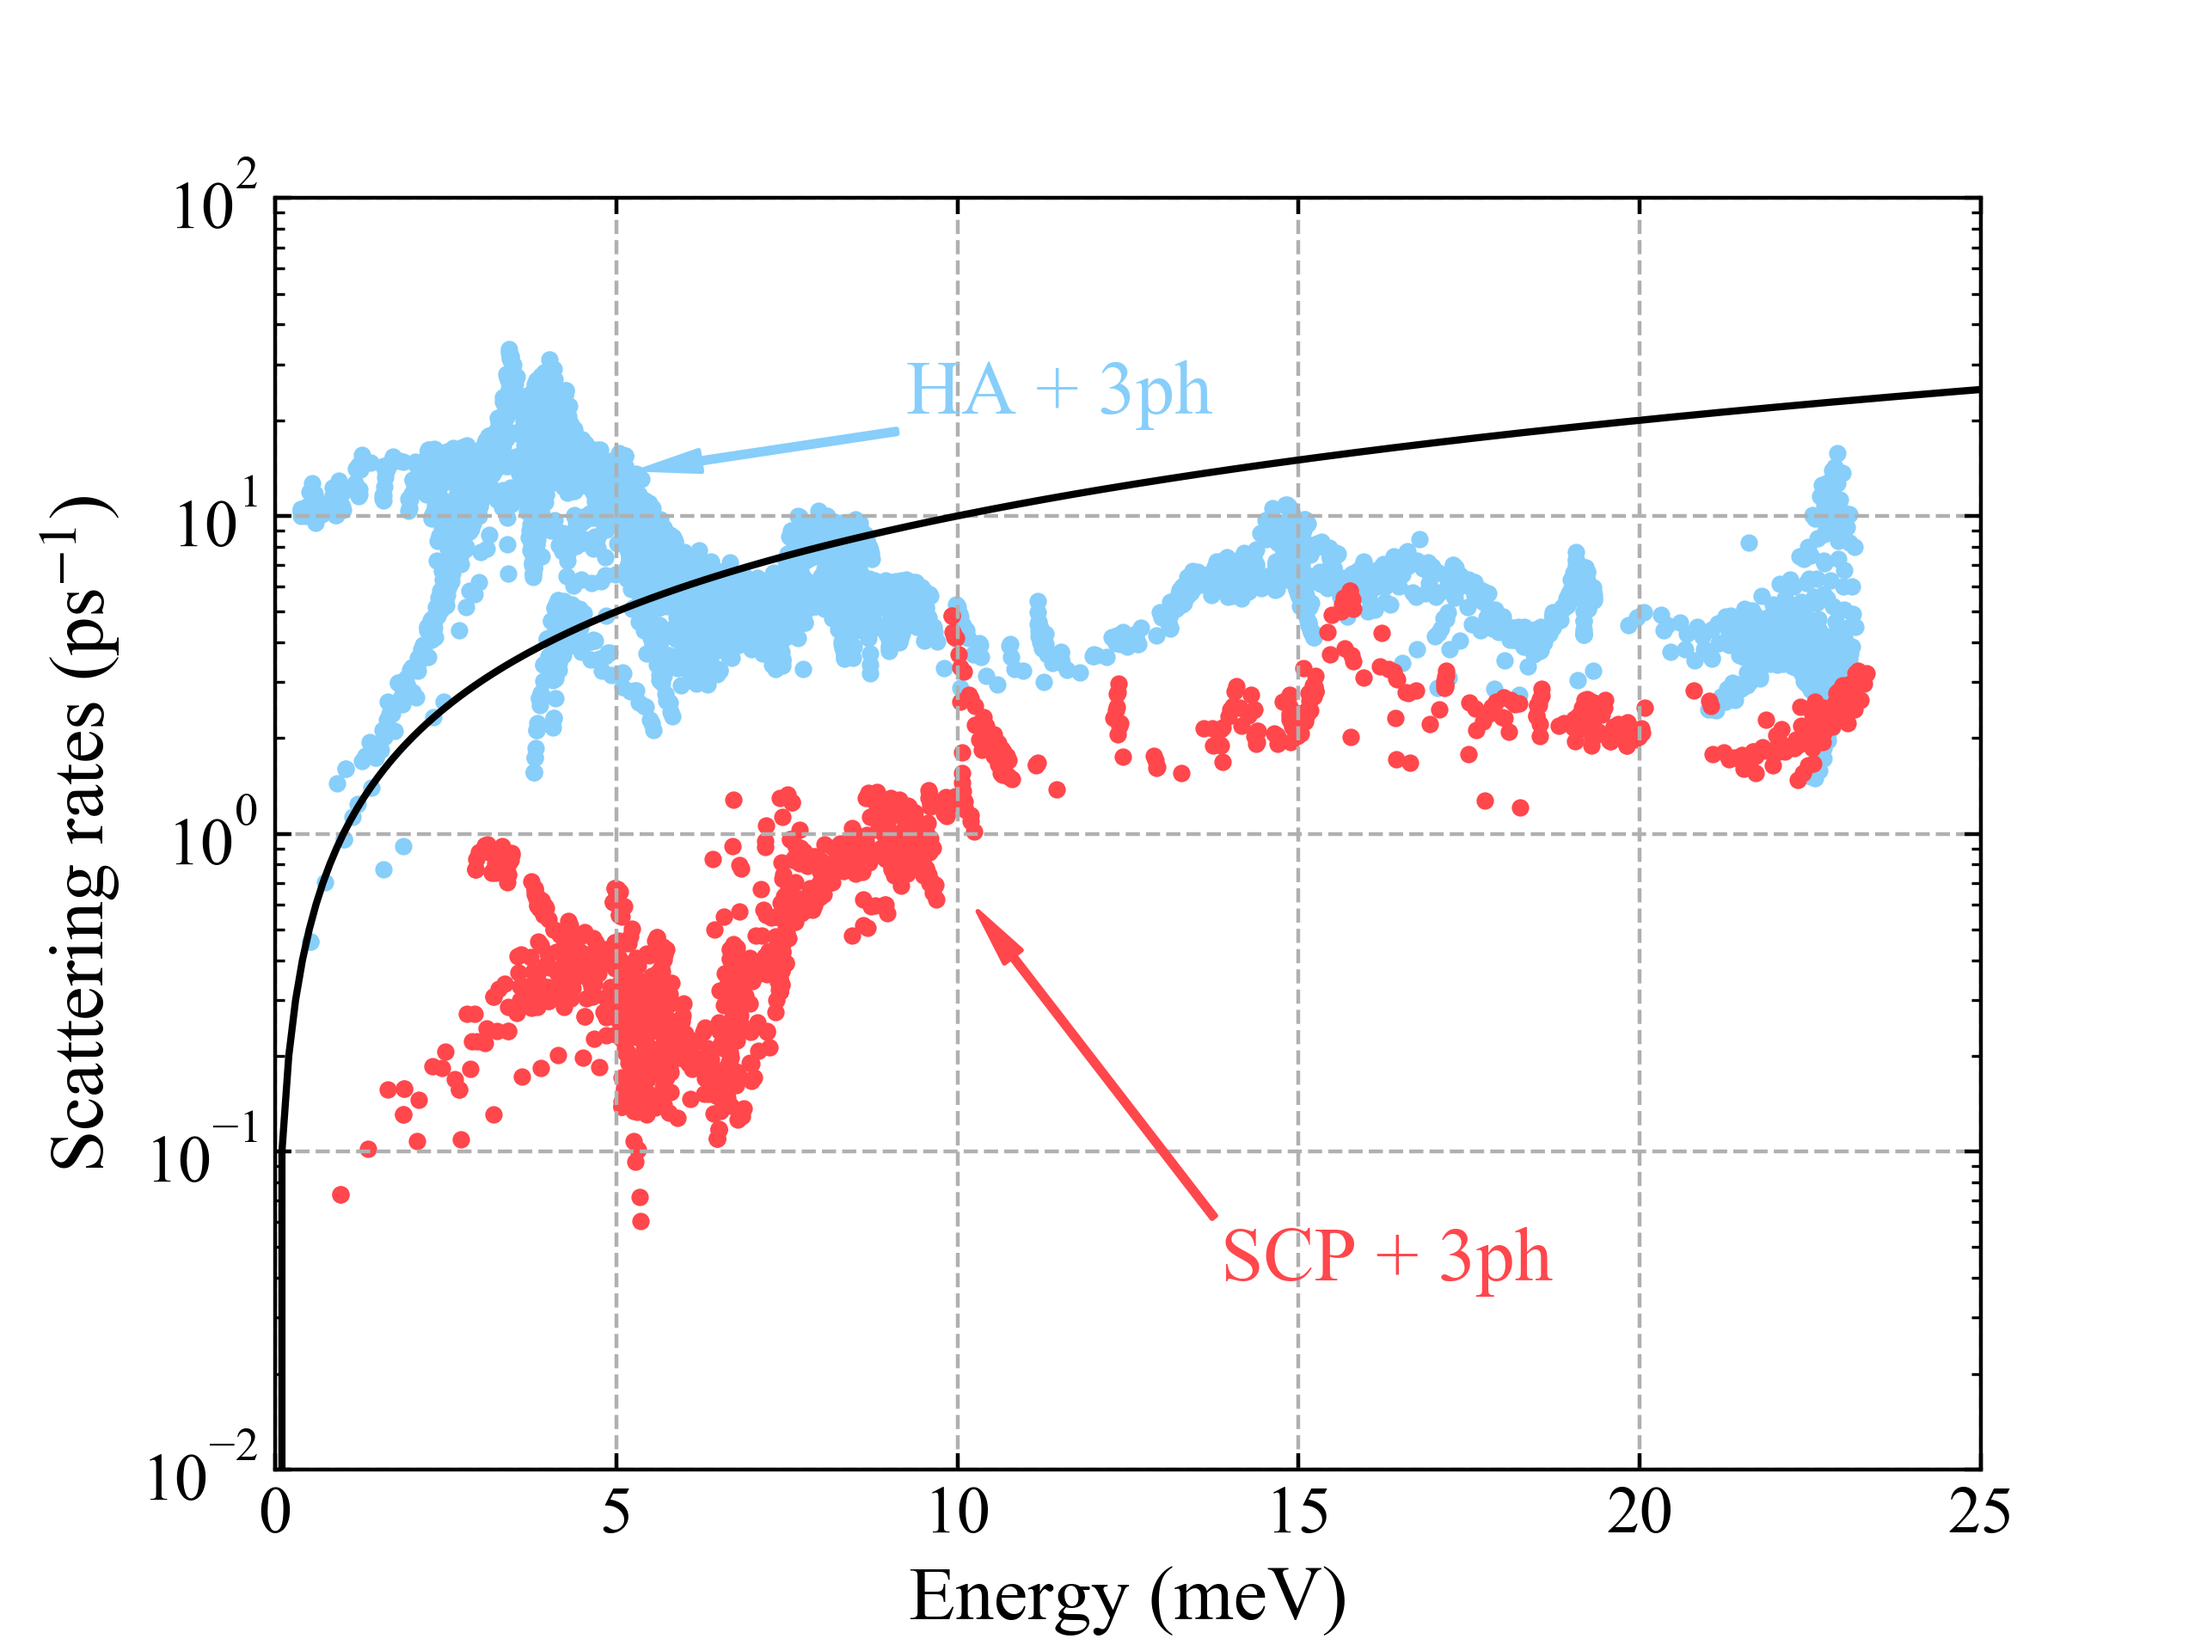
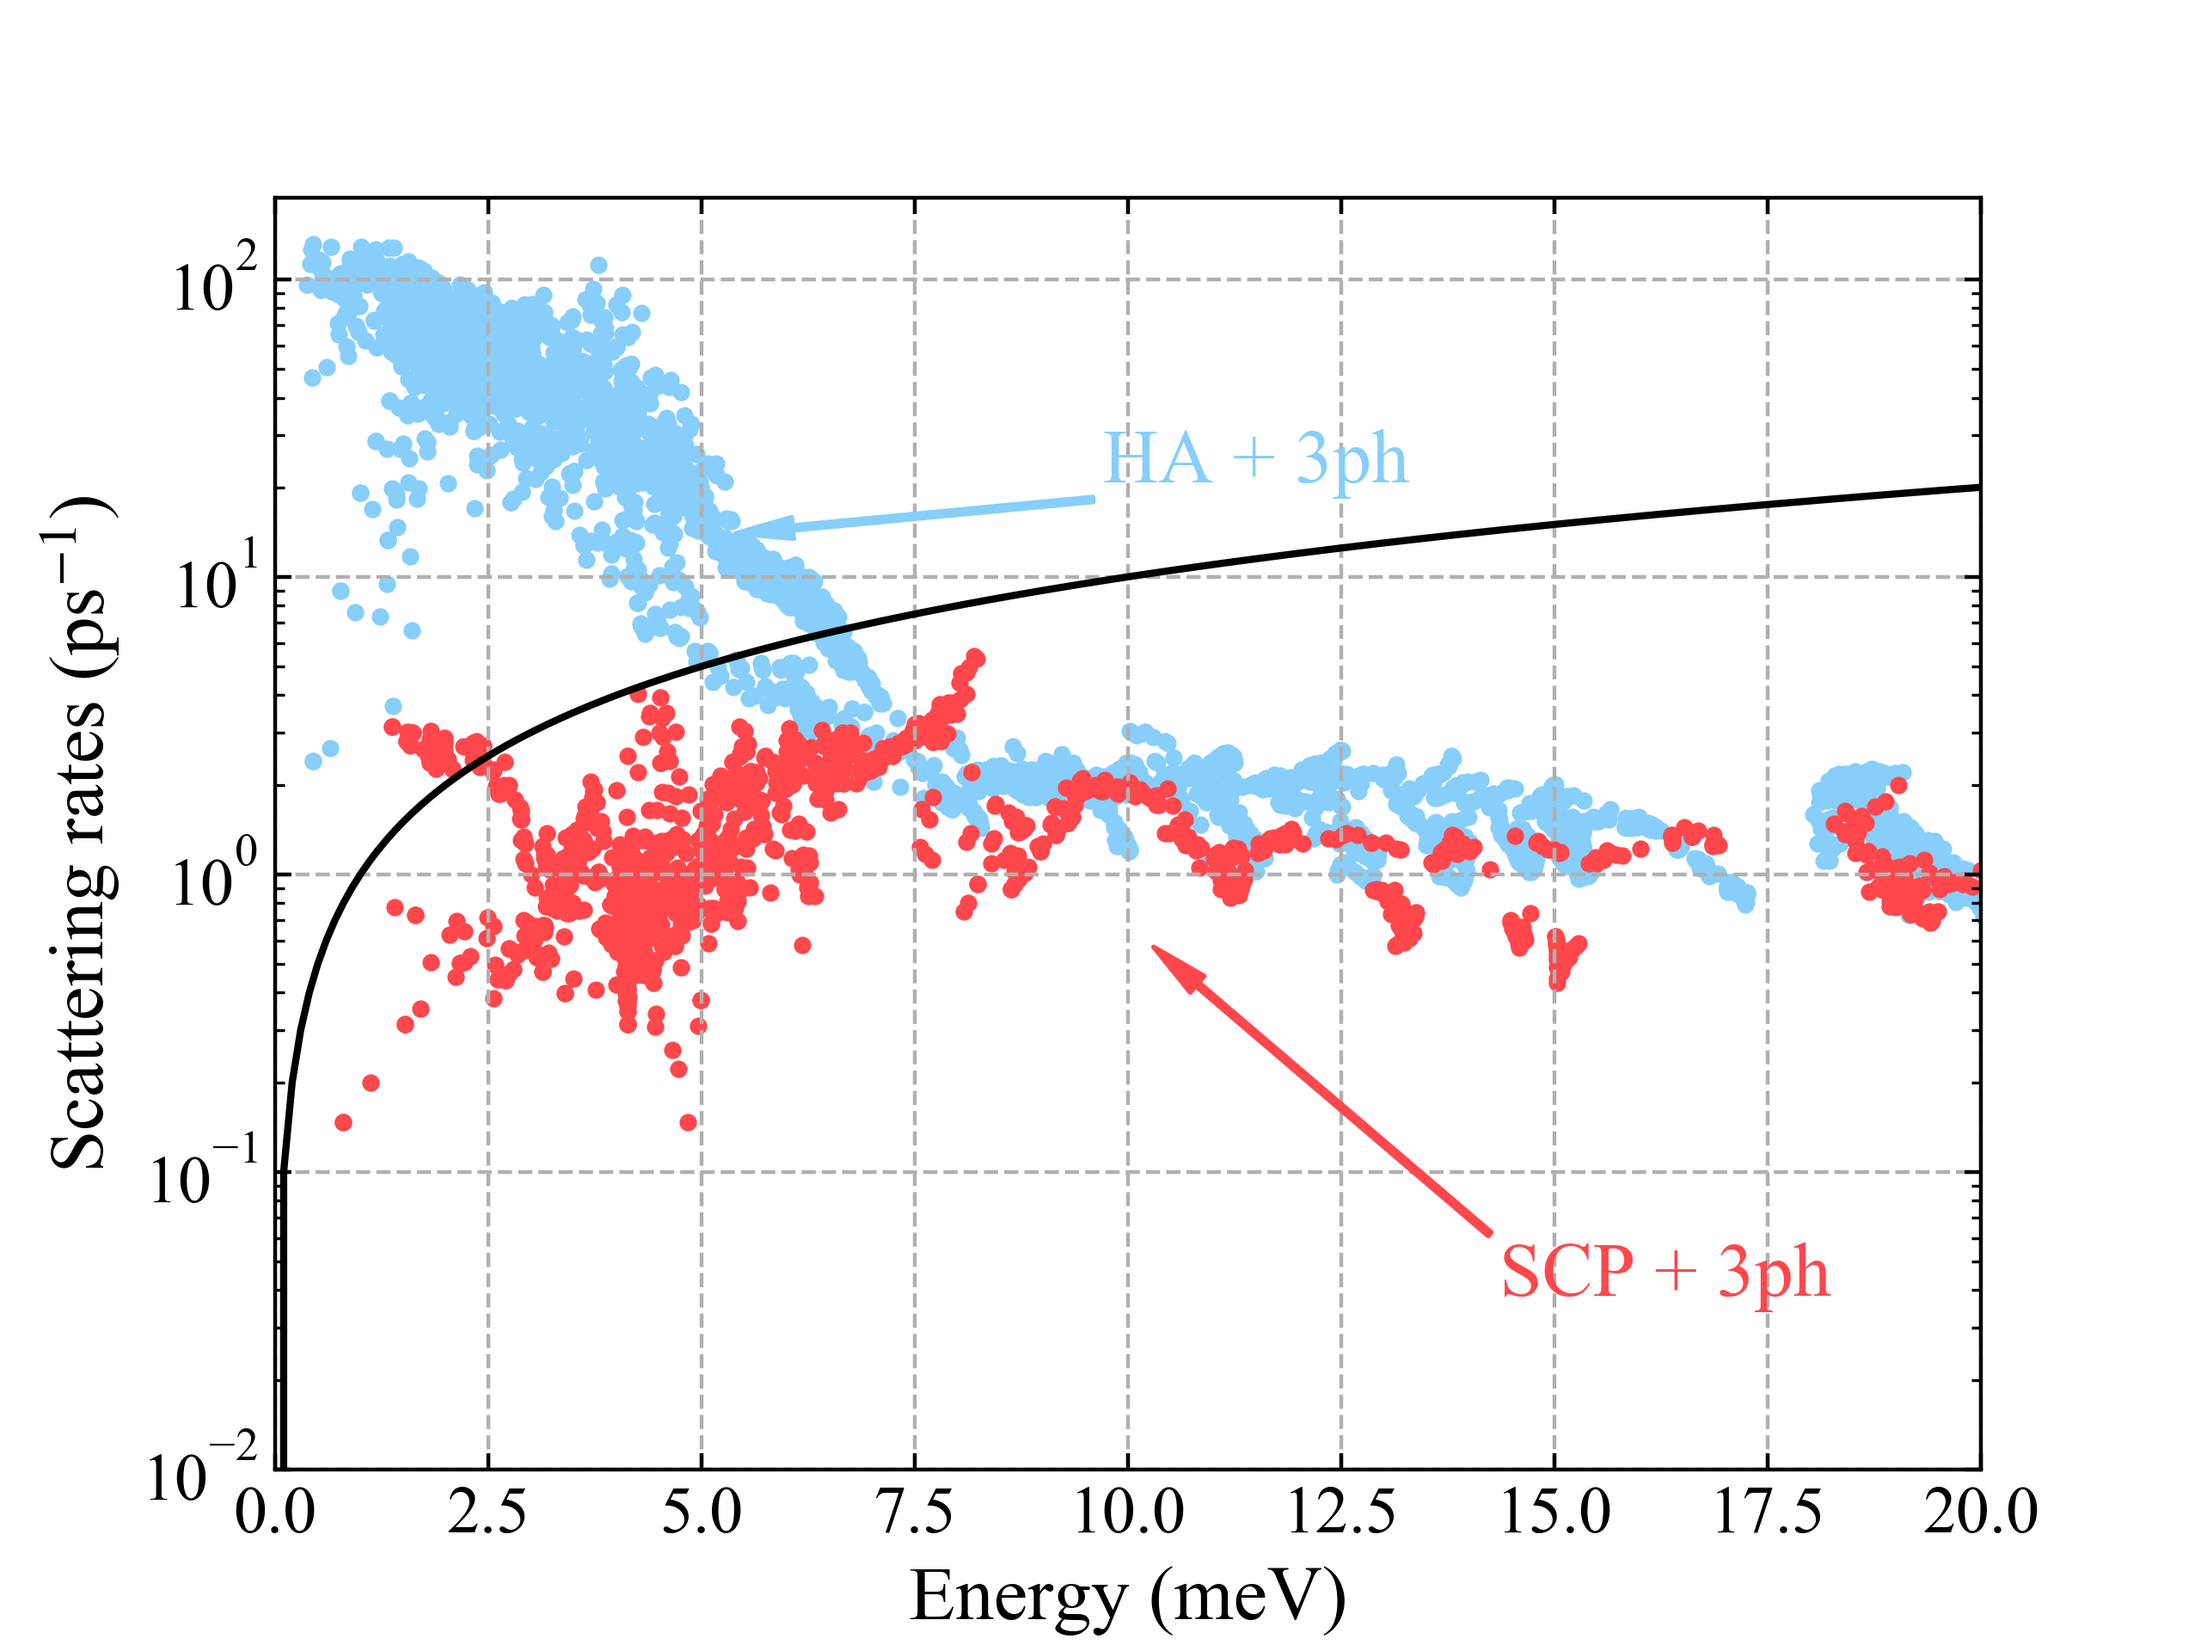
add new pictures

diff --git a/plot_scattering_rate.py b/plot_scattering_rate.py
@@ -1,6 +1,7 @@
 import matplotlib.pyplot as plt
 import numpy as np
 import matplotlib as mpl
+import os
 
 mpl.rc('font', **{'family': 'Times New Roman','weight':'normal', 'sans-serif': ['Helvetica']})
 mpl.rc('xtick', labelsize=12)
@@ -60,7 +61,22 @@ def plot_sr_temp(file_name_low_T, file_name_high_T, file_name_max_T):
     plt.show()
 
 
-def plot_sr_methods(file_path_1, file_path_2):
+def plot_sr_methods(file_path_1, file_path_2, fig_name, **kwargs):
+
+    """
+
+    :param file_path_1: str.
+    :param file_path_2: str.
+    :param fig_name: str.
+    :param kwargs:
+    xmax: the max value of the x-axis
+    ymax: the max value of the y-axis
+
+    :return:
+    """
+    allowed_kwargs={'xmin', 'xmax', 'ymin', 'ymax'}
+    xmax= kwargs.get('xmax')
+    ymin = kwargs.get('ymin')
     tau_1 = np.loadtxt(file_path_1)
     tau_2 = np.loadtxt(file_path_2)
 
@@ -72,7 +88,7 @@ def plot_sr_methods(file_path_1, file_path_2):
     plt.scatter(tau_1[start_index:,2] * kayser_to_mev, 1/tau_1[start_index:,3], c='lightskyblue', s=markersize, marker='o')
     plt.scatter(tau_2[start_index:,2] * kayser_to_mev, 1/tau_2[start_index:,3], c='#ff474c', s=markersize, marker='o')
     x=np.arange(0, 30, 0.1)
-    plt.plot(x, x, color='k', linestyle='-', linewidth=1.5)
+    plt.plot(x, 2*x, color='k', linestyle='-', linewidth=1.5)
     plt.yscale('log')
     plt.tick_params(axis='both', which='both', direction='in', right=True, top=True)
     plt.grid(b=True, which='major', axis='both', linestyle='--')
@@ -87,8 +103,8 @@ def plot_sr_methods(file_path_1, file_path_2):
 
 
     # plt.axis(xmin=0, xmax=30, ymin=0, ymax=100)
-    plt.xlim((0, 25))
-    plt.ylim((0.01, 100))
+    plt.xlim((0, xmax))
+    plt.ylim(bottom=ymin)
 
     plt.xlabel('Energy (meV)', fontsize=labelsize)
     plt.ylabel('Scattering rates (ps$^{-1}$)', fontsize=labelsize)
@@ -96,7 +112,8 @@ def plot_sr_methods(file_path_1, file_path_2):
     plt.yticks(fontsize=14)
     # plt.gca().set_aspect(1.0 / plt.gca().get_data_ratio(), adjustable='box')
     # plt.tight_layout()
-    plt.savefig('./pictures/scattering_rate_2.png', dpi=400)
+    fname = os.path.join('./pictures', fig_name)
+    plt.savefig(fname, dpi=400)
     plt.show()
 
 if __name__=='__main__':
@@ -105,10 +122,19 @@ if __name__=='__main__':
     # tau_Br3CaCs_600 = './Br3Ca1Cs1/scfph/kapa_300/tau600K_iso.dat'
     # plot_sr_temp(tau_Br3CaCs_100, tau_Br3CaCs_300, tau_Br3CaCs_600)
 
+    # tau_1 = './Br3Cd1Cs1/phonons/tau300K_iso.dat'
+    # tau_2 = './Br3Cd1Cs1/scfph2/kapa_300/tau300K_iso.dat'
+    # plot_sr_methods(tau_1, tau_2, fig_name='scattering_rate_BrCdCs.png', xmax=25, ymin=0.01)
 
-    tau_1 = './Br3Cd1Cs1/phonons/tau300K_iso.dat'
-    tau_2 = './Br3Cd1Cs1/scfph2/kapa_300/tau300K_iso.dat'
-    plot_sr_methods(tau_1, tau_2)
+
+    tau_1 = './BrCsSn/phonons/tau300K_iso.dat'
+    tau_2 = './BrCsSn/scfph/kapa_300/tau300K_iso.dat'
+    plot_sr_methods(tau_1, tau_2, fig_name='scattering_rate_BrCsSn.png', xmax=20, ymin=0.01)
+
+    # tau_1 = './Br3Cd1Cs1/phonons/tau300K_iso.dat'
+    # tau_2 = './BrCsSn/scfph/kapa_300/tau300K_iso.dat'
+    # plot_sr_methods(tau_1, tau_2, fig_name='scattering_rate_BrCsSn.png', xmax=20, ymin=0.01)
+
 
 
 
